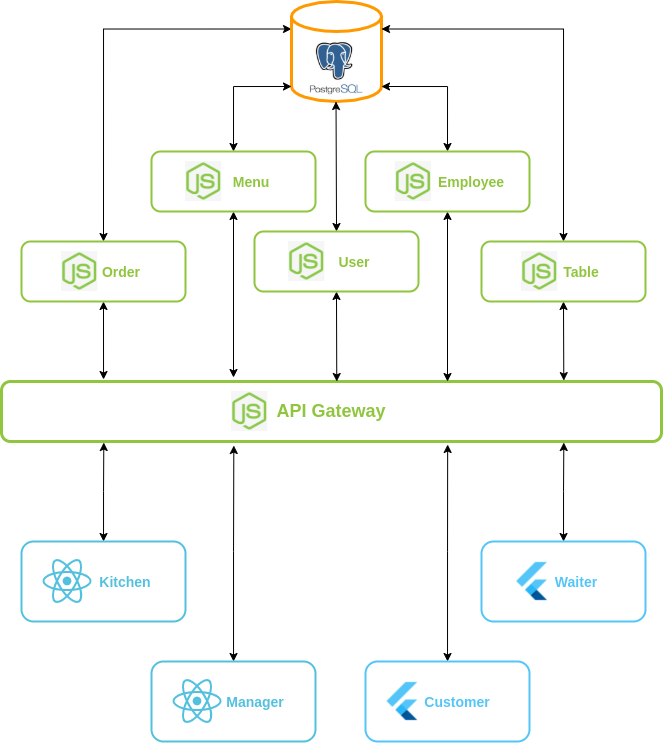
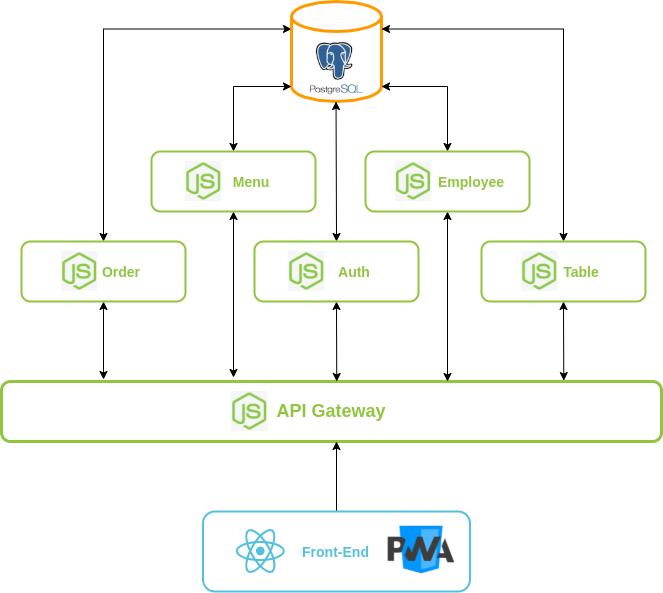
(#70) Atualiza diagrama de contexto da aplicação

Changed region(s): [[0.0, 0.0, 1.0, 0.8499], [0.2112, 0.8499, 0.8145, 1.0]]

diff --git a/docs/5-Extra/Arquitetura/arquitetura.md b/docs/5-Extra/Arquitetura/arquitetura.md
@@ -20,9 +20,22 @@ Modelo de representação dos serviços implementados e as interações estabele
 
 #### 2.1.1 Front-End 
 
-- **Flutter**        
+- **ReactJS**
+
+ReactJS é uma biblioteca de código aberto com foco em criar interfaces de usuário em páginas Web. Este framework é mantido pelo Facebook, Instagram e outras empresas além de um comunidade de desenvolvedores. Esta biblioteca foi criada utilizando a linguagem JavaScript. Possui uma metodologia de desenvolvimento de software conhecida como PWA (Progressive Web App), que pode ser visto como uma evolução híbrida entre as páginas web e um aplicativo móvel.
+
+#### 2.1.2 Back-End 
+
+- **Node.js**
+
+Node.js é um software de código aberto, multiplataforma, baseado no interpretador V8 do Google e que permite execução de códigos JavScript fora do navegador. Este software foi criado utilizando a linguagem JavScript.
+
+#### 2.1.3 Banco de dados
+
+- **PostgreSQL**
 
 PostgreSQL é um SGBD(Sistema Gerenciador de Banco de Dados) relacional, desenvolvido como um projeto de código aberto, que já conta com mais de 30 anos de desenvolvimento ativo. é um sistema muito conhecido por sua forte reputação de confiabilidade e recursos de desempenho.
+
 
 ### 2.2 Motivação Arquitetural
 
@@ -38,14 +51,25 @@ No software descrito nessa Wiki possui os seguintes módulos:
 
 - **Order**, responsável por toda interação com os pedidos dos clientes.
 - **Menu**, responsável por toda criação de produtos e separação por categorias.
-- **User**, responsável por todo sistema de login dos usuários no sistema.
+- **Auth**, responsável por todo sistema de autenticação dos usuários no sistema.
 - **Employee**, responsável por toda interação dos garçons no sistema, como serem chamdos por alguma mesa.
 - **Table**, responsável por toda interação com as mesas do estabelecimento.
 - **Gateway**, responsável por intermediar a comunicação entre o Front-End e o Back-End.
+---
+
+- **PWA (App Shell)**
+
+O PWA (Progressive Web App), que será usado no Front-end da aplicação possui uma arquitetura seguindo o modelo de App Shell (Casca de aplicativo). Este formato diminui as solicitações de atualização da página, porque separa as partes do aplicativo que são constantes a maior parte do tempo, como o menu, header, footer e outras partes do layout da página, essas partes constantes em conjunto são chamadas de App Shell. Fazendo isso gera uma fluidez de um aplicativo móvel, rodando um código Web.
 
 ### 2.4 Diagrama de Contexto
 
 [ ![Arquitetura](../../assets/img/seminario2/arquitetura/arquitetura.png) ](../../assets/img/seminario2/arquitetura/arquitetura.png)
+
+<figcaption>Figura 1. Resultado do diagrama de contexto.</figcaption>
+
+|     Tema da Reunuião      |       Participantes                                                                     |
+| :------------ | :------------------------------------------------------------------------ |
+| Definição do diagrama de contexto e tecnologias da aplciação |                      **Todos** os membros do grupo estavam presentes.                      |
 
 ## 3. Restrições e Metas Arquiteturais
 
@@ -84,6 +108,8 @@ No software descrito nessa Wiki possui os seguintes módulos:
 
 > - WAYNER, Peter. **The top 5 software architecture patterns**: how to make the right choice. [S. l.]. Disponível em: https://techbeacon.com/app-dev-testing/top-5-software-architecture-patterns-how-make-right-choice. 16 de agosto de 2021.
 
+> - GoodBarber Team. **PWAs - Fundamentos da tecnologia e estudos de casos poderosos**: how to make the right choice. [S. l.]. Disponível em: https://pt.goodbarber.com/blog/pwas-fundamentos-da-tecnologia-e-estudos-de-casos-poderosos-a783/. 17 de agosto de 2021.
+
 ## Histórico de Revisões
 
 | Data       | Versão | Descrição                                    | Autor(es)                                                                                                |
@@ -91,4 +117,5 @@ No software descrito nessa Wiki possui os seguintes módulos:
 | 16/08/2021 | 0.1    | Adiciona estrutura do documento              | [Lucas Boaventura](https://github.com/lboaventura25)                                                     |
 | 16/08/2021 | 1.0    | Cria o documento                             | [Lucas Boaventura](https://github.com/lboaventura25)                                                     |
 | 17/08/2021 | 1.1    | Adiciona correção de formatação no documento | [Lucas Boaventura](https://github.com/lboaventura25)                                                     |
+| 17/08/2021 | 1.2    | Atualiza arquitetura após redefinição em grupo      | [Lucas Boaventura](https://github.com/lboaventura25)                                                     |
 
